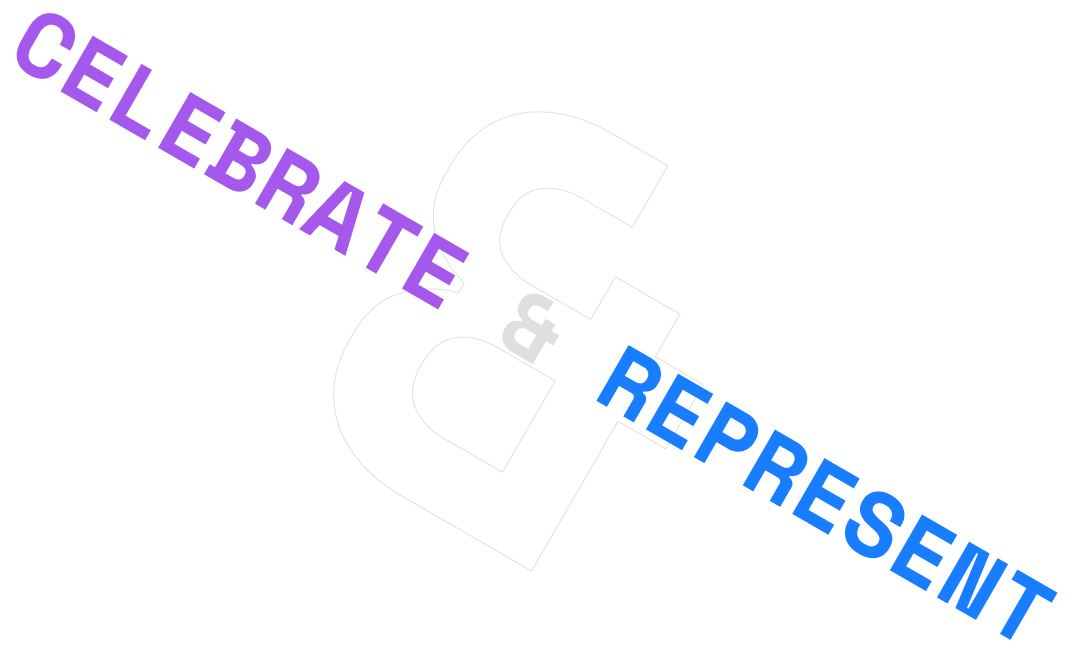
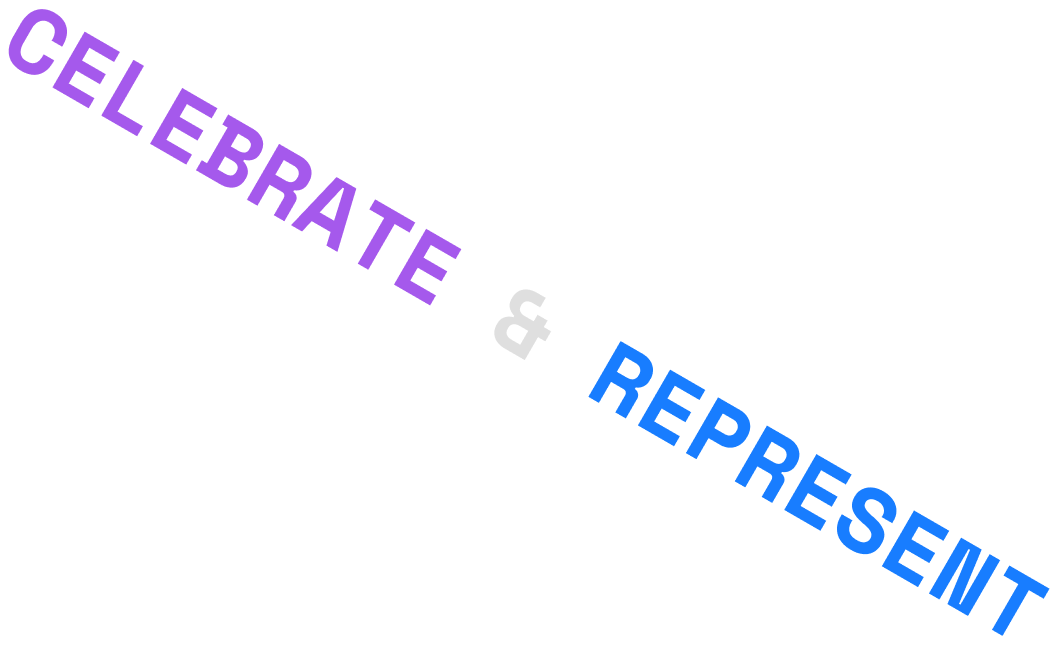
CelebrateRepresent Changes

Changed region(s): [[0.548, 0.5263, 1.0, 0.9907], [0.0, 0.0, 0.4567, 0.4644], [0.4872, 0.4644, 0.5176, 0.4954]]

diff --git a/src/component/CulturePage/Events3/index.jsx b/src/component/CulturePage/Events3/index.jsx
@@ -6,29 +6,33 @@ const Events3 = () => {
     <div className="position-relative w-70 vh-100 py-4 px-5">
       <div className="events-picture d-flex">
         <div class="row gx-5">
-          <div class="col ps-5 pe-5">
+          <div class="col">
             <div class = "all-hands">
-              <p className="text-uppercase all-hands-title">all-hands</p>
-              <p className="t-4 r-3 showcase-text">
-                Lorem ipsum dolor sit amet, consectetur adipiscing elit. Est sed
-                nunc porttitor arcu etiam. Eget duis sapien, faucibus nunc nec
-                elit tempus risus. Tincidunt sagittis nulla orci id. Augue risus
-                adipiscing mi eleifend proin nisl ac gravida. Viverra cursus.
-                Tincidunt sagittis nulla orci id.
-              </p>
+              <div class ="shiftleft1">
+                <p className="text-uppercase all-hands-title">all-hands</p>
+                <p className="t-4 r-3 showcase-text">
+                  Lorem ipsum dolor sit amet, consectetur adipiscing elit. Est sed
+                  nunc porttitor arcu etiam. Eget duis sapien, faucibus nunc nec
+                  elit tempus risus. Tincidunt sagittis nulla orci id. Augue risus
+                  adipiscing mi eleifend proin nisl ac gravida. Viverra cursus.
+                  Tincidunt sagittis nulla orci id.
+                </p>
+              </div>
             </div>
           </div>
 
-          <div class="col ps-5 pe-2">
+          <div class="col ">
             <div class="showcase">
-              <p className="text-uppercase showcase-title">showcase</p>
-              <p className="t-4 r-3 showcase-text">
-                Lorem ipsum dolor sit amet, consectetur adipiscing elit. Est sed
-                nunc porttitor arcu etiam. Eget duis sapien, faucibus nunc nec
-                elit tempus risus. Tincidunt sagittis nulla orci id. Augue risus
-                adipiscing mi eleifend proin nisl ac gravida. Viverra cursus.
-                Tincidunt sagittis nulla orci id.
-              </p>
+              <div class = "shiftleft2">
+                <p className="text-uppercase showcase-title">showcase</p>
+                <p className="t-4 r-3 showcase-text">
+                  Lorem ipsum dolor sit amet, consectetur adipiscing elit. Est sed
+                  nunc porttitor arcu etiam. Eget duis sapien, faucibus nunc nec
+                  elit tempus risus. Tincidunt sagittis nulla orci id. Augue risus
+                  adipiscing mi eleifend proin nisl ac gravida. Viverra cursus.
+                  Tincidunt sagittis nulla orci id.
+                </p>
+              </div>
             </div>
           </div>
 

diff --git a/src/component/CulturePage/Events2/index.jsx b/src/component/CulturePage/Events2/index.jsx
@@ -1,6 +1,6 @@
 import React from "react";
 import "./style.css";
-import CelebrateRepresent from "./CelebrateRepresent.png";
+import CelebrateRepresent from "../Events2/CelebrateRepresent.png";
 
 const Events2 = () => {
   return (
@@ -8,15 +8,17 @@ const Events2 = () => {
       <div className="events-picture-container d-flex flex-wrap justify-content-between">
         <div class="row gx-5">
           <div class="col ps-5 pe-5">
-            <p className="text-uppercase moral-budget-title">
-              morale&nbsp;budget
-            </p>
-            <p className="t-4 r-3 l-5 moral-budget-text">
-              Lorem ipsum dolor sit amet, consectetur adipiscing elit. Est sed
-              nunc porttitor arcu etiam. Eget duis sapien, faucibus nunc nec
-              elit tempus risus. Tincidunt sagittis nulla orci id. Augue risus
-              adipiscing mi eleifend proin nisl ac gravida. Viverra cursus.
-            </p>
+            <div class ="shiftLeft">
+              <p className="text-uppercase moral-budget-title">
+                morale&nbsp;budget
+              </p>
+              <p className="t-4 r-3 l-5 moral-budget-text">
+                Lorem ipsum dolor sit amet, consectetur adipiscing elit. Est sed
+                nunc porttitor arcu etiam. Eget duis sapien, faucibus nunc nec
+                elit tempus risus. Tincidunt sagittis nulla orci id. Augue risus
+                adipiscing mi eleifend proin nisl ac gravida. Viverra cursus.
+              </p>
+            </div>
           </div>
 
           <div class="col ps-5 pe-5 inclined-img-container">
@@ -26,7 +28,8 @@ const Events2 = () => {
             </div>
           </div>
 
-          <div class="col ps-5 pe-5">
+          <div class="col">
+            <div class="shiftleft3">
             <p className="text-uppercase orientation-title">orientation</p>
             <p className="orientation-text">
               Lorem ipsum dolor sit amet, consectetur adipiscing elit. Est sed
@@ -35,6 +38,7 @@ const Events2 = () => {
               adipiscing mi eleifend proin nisl ac gravida. Viverra cursus.
               Tincidunt sagittis nulla orci id.
             </p>
+            </div>
           </div>
 
           {/* <div class="col ps-5 pe-5">

diff --git a/src/component/CulturePage/Events2/style.css b/src/component/CulturePage/Events2/style.css
@@ -100,6 +100,16 @@
   width: 170%;
 }
 
+.shiftLeft {
+  margin-left: 20px;
+  margin-top: -15%;
+}
+
+
+.shiftleft3 {
+  margin-right: 50px;
+}
+
 /* .inclined-img-container {
   height: 100vh;
   width: 170vw;
@@ -108,5 +118,7 @@
 .celebrate-rep-container {
   /* width: 400px; */
   width: 120%;
-  margin-top: -10%;
+  height: 80%;
+  margin-top: -30%;
+  margin-left: -10%;
 }

diff --git a/src/component/CulturePage/Events3/style.css b/src/component/CulturePage/Events3/style.css
@@ -38,3 +38,12 @@
   color: #187dff;
   text-align: left;
 }
+
+.shiftleft1 {
+  margin-right: 50px;
+}
+
+.shiftleft2 {
+  margin-right: 20px;
+  margin-bottom: 10px; 
+}
